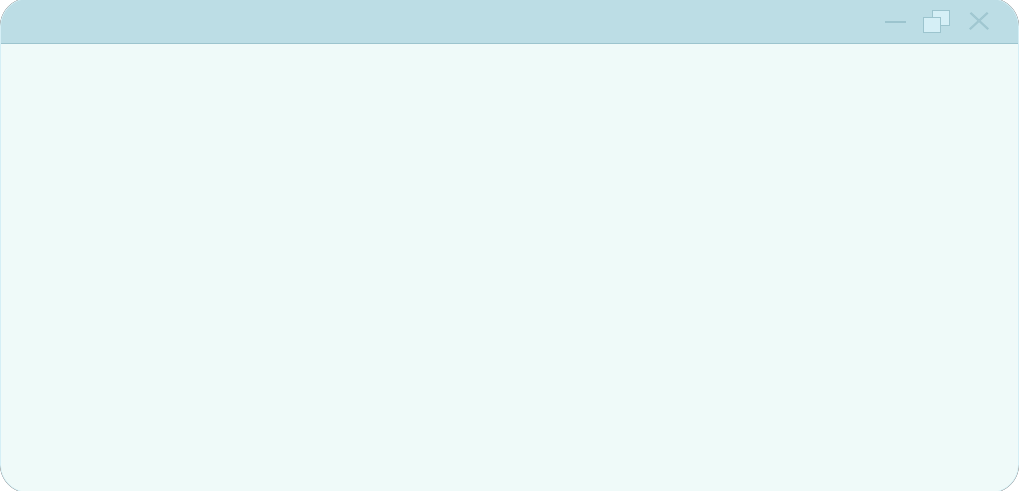
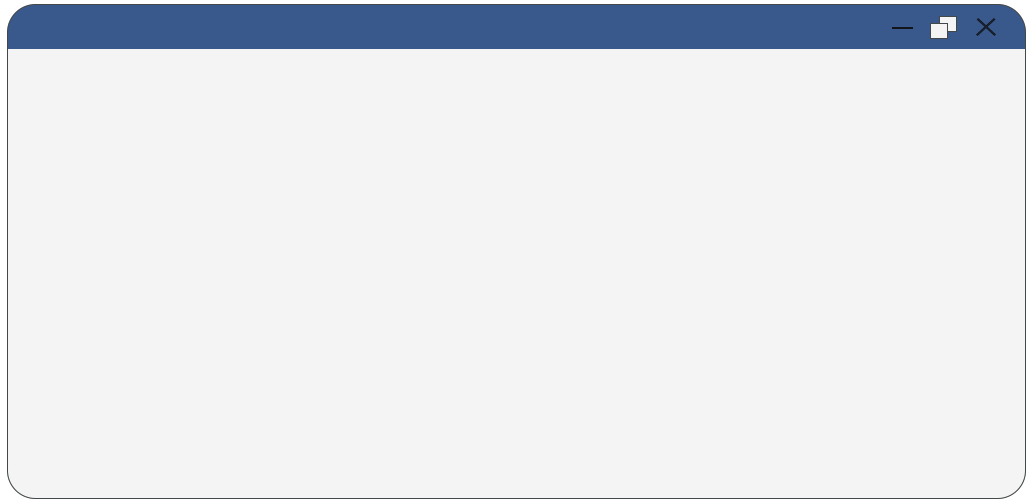
Color theme current pink

Changed region(s): [[0.0, 0.0, 1.0, 0.1222], [0.9735, 0.947, 1.0, 1.0], [0.0, 0.947, 0.0304, 1.0]]

diff --git a/src/routes/+page.svelte b/src/routes/+page.svelte
@@ -5,7 +5,7 @@
   
   <div class="p-8 relative">
 	
-	<p class="p-10  text-6xl dark:text-white text-sky-800" >
+	<p class="p-10  text-6xl dark:text-white text-sky-950" >
 		<span class="bg-gradient-to-r from-rose-300 via-rose-200 to-sky-500 bg-[length:100%_6px] bg-no-repeat bg-bottom pr-24">
 			Hi There, I'm Huda
 		</span>
@@ -19,18 +19,19 @@
 				top: 5%;
 				left: 10%;
 				transform: translate(-50%, -50%);">
-				<p class="text-xl font-bold text-sky-800">About Me.txt </p>
+				<p class="text-xl text-white font-bold">About Me.txt </p>
 				</div>
 	
 				<div style="position: absolute;
 				top: 15%;
 				left: 5%;
 				">
-				<p class="text-xl  text-sky-800 w-5/6">As someone who is currently studying Interactive Media and Design at Carleton and Algonquin University, it's fascinating coming across
+				<p class="text-xl  text-sky-950 w-5/6">As someone who is currently studying Interactive Media and Design at Carleton and Algonquin University, it's fascinating coming across
 					the unseen similiarities among technology and art. Both require an eye for detail, being able to think outside the box,
 					and solving problems. Luckily for me, I enjoy doing all of the above. I appreciate the 
 					excitement of facing new problems and coming up with unique solutions, making mistakes and learning from them,
 					and the accomplishment that comes with achieving a finished result.
+
 				</p>
 	
 	

diff --git a/src/routes/experience/+page.svelte b/src/routes/experience/+page.svelte
@@ -3,9 +3,16 @@
   </script>
   
   <div class="p-8">
-	ABOYUT
-	<Alert color="primary">
-	  <span class="font-medium">Info alert!</span>
-	  Change a few things up and try submitting again.
-	</Alert>
+	<p class="p-10  text-6xl dark:text-white text-sky-950" >
+		<span class="bg-gradient-to-r from-rose-300 via-rose-200 to-sky-500 bg-[length:100%_6px] bg-no-repeat bg-bottom pr-24">
+			Coding Experience
+		</span>
+
+	</p>
+	<div class="grid grid-cols-2 h-screen">
+		<div class="border-r-8 border-sky-200">
+			bruh
+		</div>
+	</div>
+
   </div>
